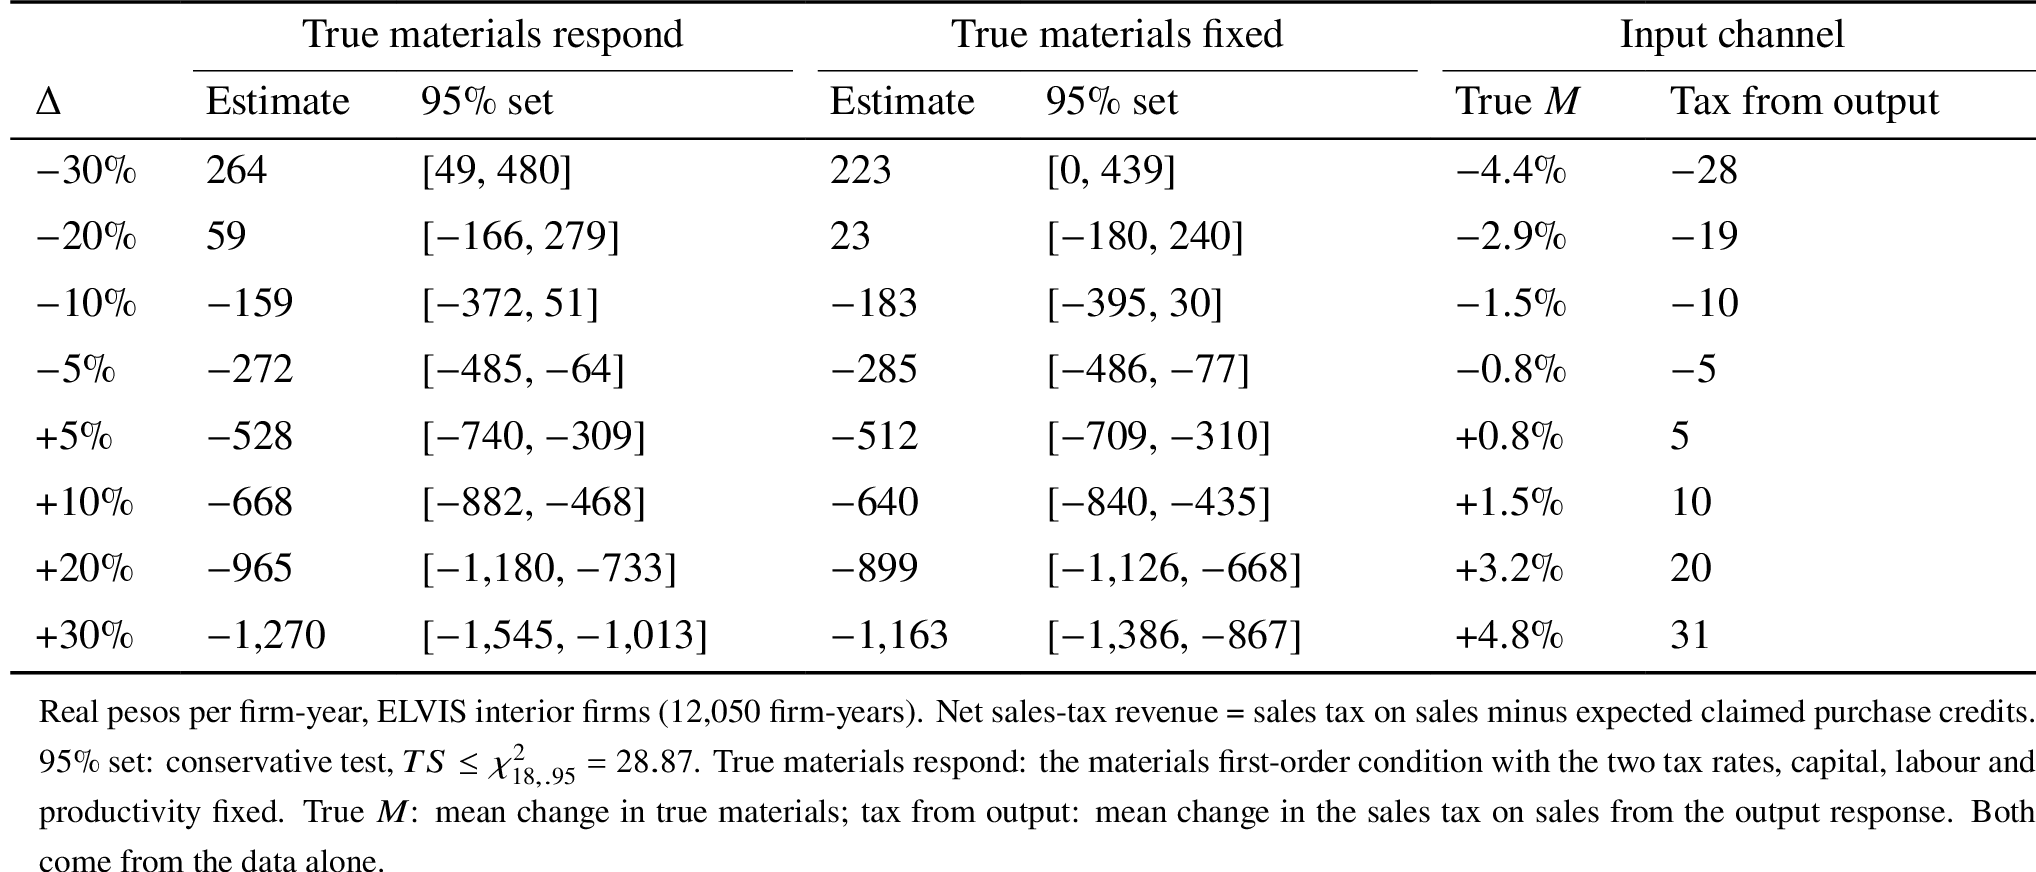
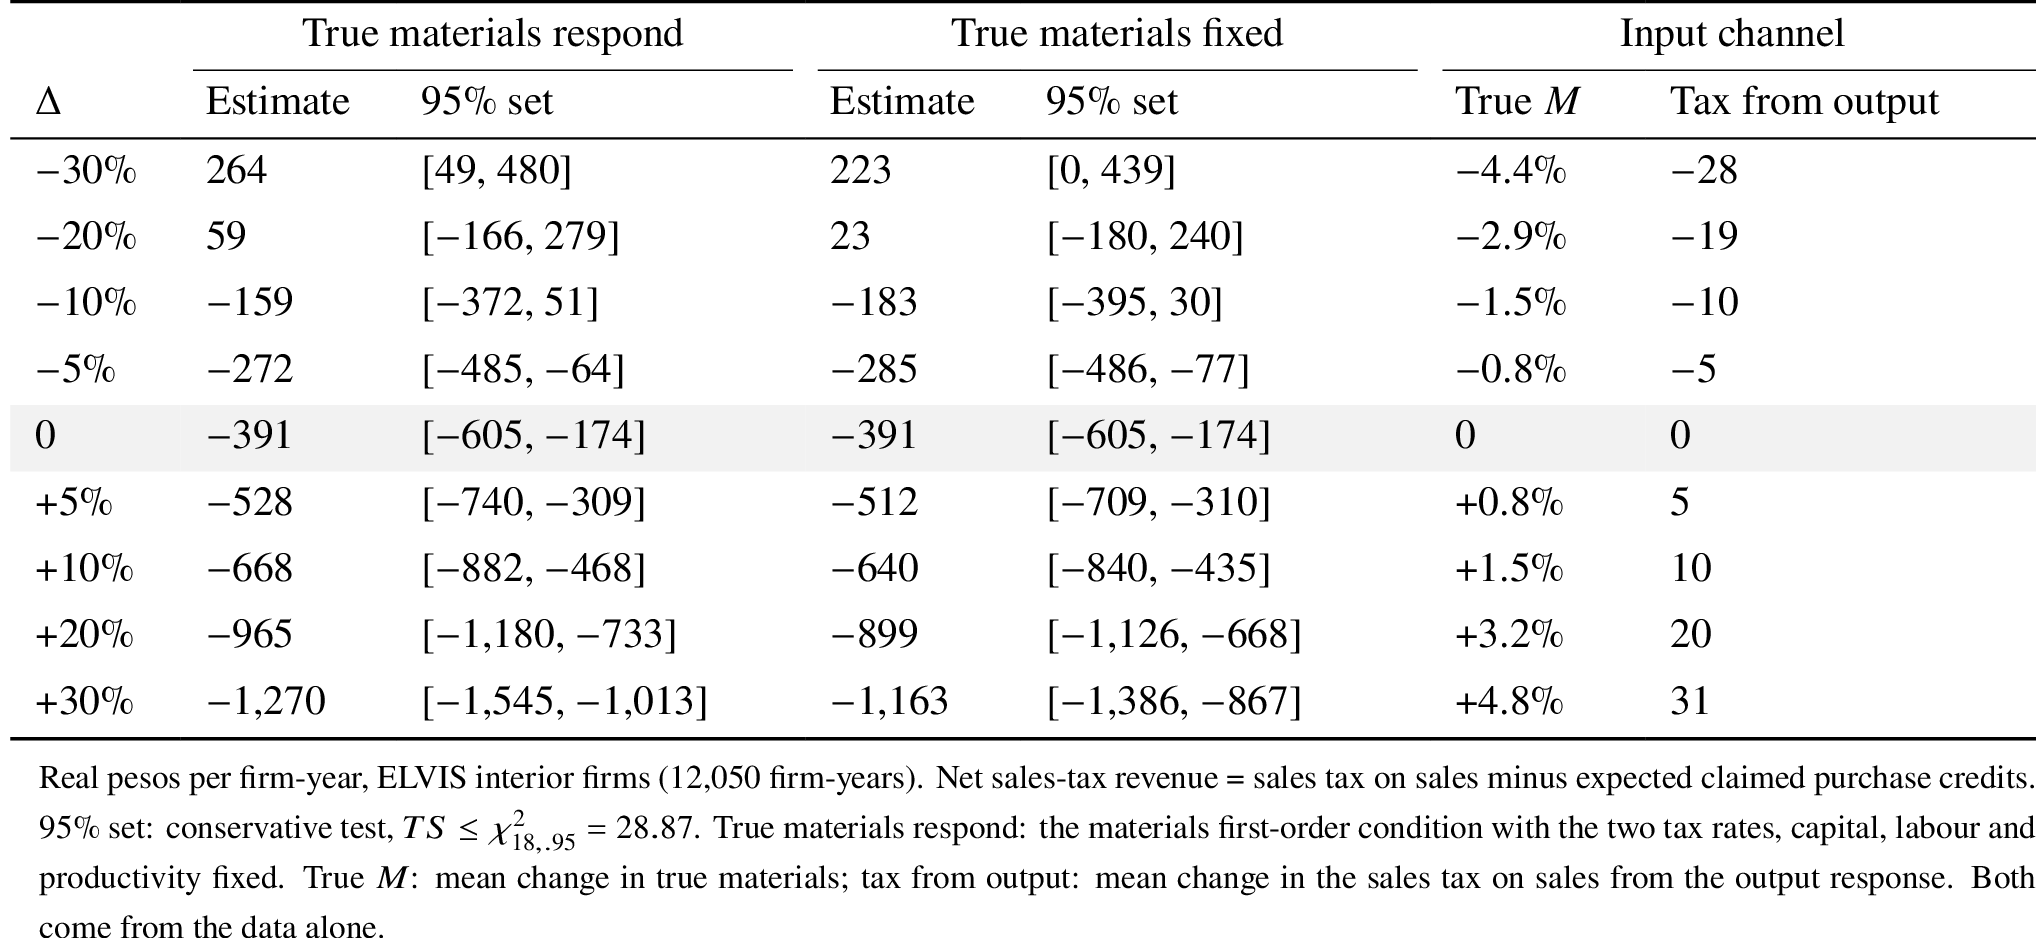
Revenue figure with break-even marker (-17%) and Delta = 0; table with Delta = 0; static reruns 1653 and 1655 results so far; log
Claude-Session: https://claude.ai/code/session_01ENhC3bV7UdxioXTdE1qwJG

diff --git a/Research-log/log.md b/Research-log/log.md
@@ -1997,3 +1997,6 @@ Revenue per interior firm-year (real), hard 95% set, TS_min; χ²₁₈ = 28.87;
 - **Economy totals:** `1621-cf-economy.R` gains `mresp` (corner and trimmed firms: claims (1+Δ)τ_P r M*, sales tax t1 r^β), revenue-target CSVs, and interim claims = interior t1 r^β − interior revenue (checks: 2,848 per firm at +0.3 vs 2,875 from the level smoke; old level output reproduced to 4e-7). Outputs `1621-cf-economy-revenue-mr{1,0}.csv`.
 - **Assets:** `ch08-cf-revenue-bounds` (figure) and `ch08-cf-revenue` (table, with the input channel columns).
 - **Production 1655 (R = 1000, M responds, 3 starts, `run-1654-cf-targets.sh`):** old MacBook diff_revenue ±1/1.5/2%; MacBook diff_input (same Δ); Mac mini, chained after 1653, diff_evasion (same Δ) + elast_claims at 0.
+- **Static reruns (1653) vs old:** loss share interior 4.7% [2.8, 6.3] (old 4.3% [3.5, 7.1]); (A) 4.1% [2.9, 5.5] (3.9% [3.3, 5.3]); (B) **1.5%** [1.1, 3.1] (1.9% [1.5, 2.4]: the conclusion's "at least 1.9 percent" needs updating); gap 21.8% [11.4, 130.6] (21.6% [13.6, 47.9]; the denominator is small, so the set is poorly bounded); true credit 0.956 [0.811, 1.090]. Revenue at Δ = 0: −391 [−605, −174] per firm-year.
+- **1655 so far:** claims elasticity (M responds), arcs: +1% 1.39 (input 0.18, evasion 0.21), −1% 1.32 (0.18, 0.14); central difference at 0: 1.44 [1.32, 1.50] (flat profile; report the arcs). Revenue (cut side): −1% ΔR +24.7 [21.4, 28.0]; elasticity −6.3 (base |R(0)|), −1.60 (base mean t1).
+- **Revenue figure (Hans: punchline):** break-even marker added (sober grey). Break-even at Δ ≈ **−17%** (linear interpolation of the M-responds estimates; I first misstated it as −23%). At −30% revenue +264 [49, 480] (M responds; fixed M [0, 439]); whole economy (B) +3.6 M [1.0, 6.2].
